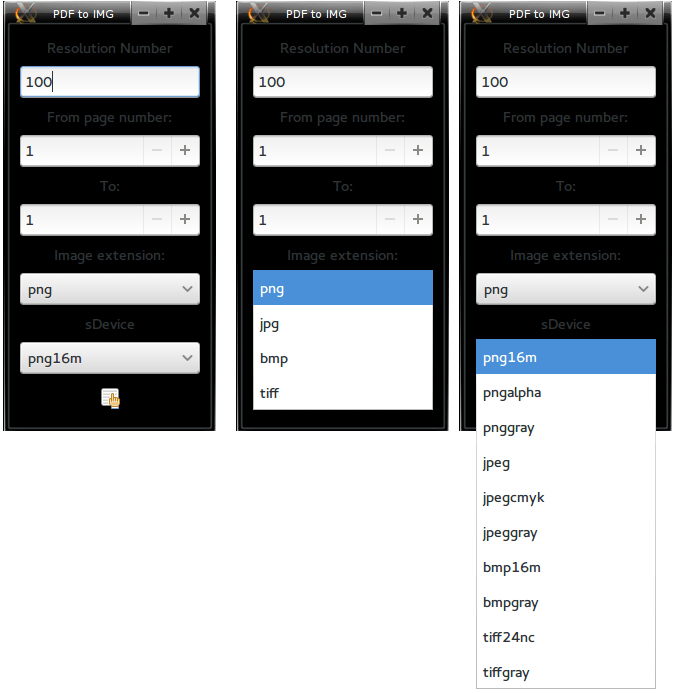
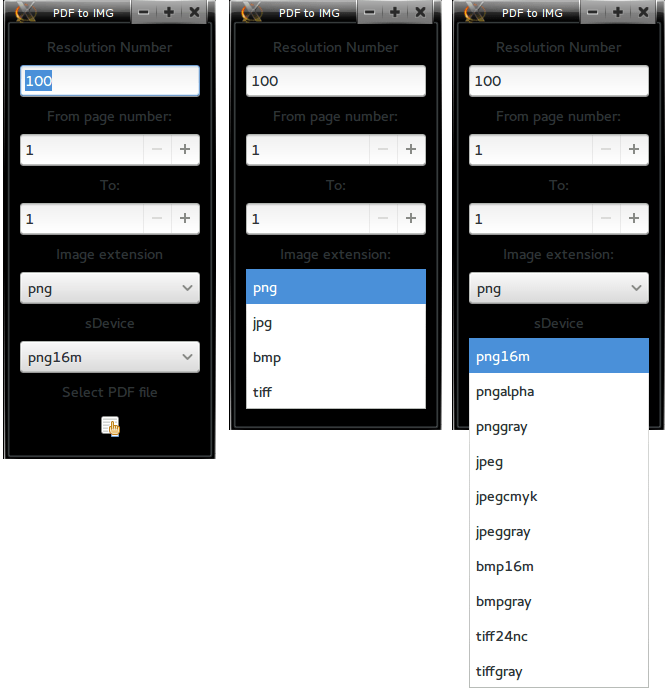
pdf2img

diff --git a/pdf2img_gui.py b/pdf2img_gui.py
@@ -12,11 +12,11 @@ class MainWindow(Gtk.Window):
     def button_clicked(self, widget):
         resolution_number = self.entry.get_text().isdigit()
         if resolution_number is not False:
-            chooser_dialog = Gtk.FileChooserDialog(title="Select file"
+            chooser_dialog = Gtk.FileChooserDialog(title="Select PDF file"
             ,action=Gtk.FileChooserAction.OPEN
             ,buttons=["Convert", Gtk.ResponseType.OK, "Cancel", Gtk.ResponseType.CANCEL])
             filter_pdf = Gtk.FileFilter()
-            filter_pdf.set_name("PDF Files")
+            filter_pdf.set_name("PDF Filter")
             filter_pdf.add_pattern("*.pdf")
             chooser_dialog.add_filter(filter_pdf)
             chooser_dialog.run()
@@ -93,7 +93,7 @@ class MainWindow(Gtk.Window):
         self.spinbutton2 = Gtk.SpinButton(adjustment=adjustment, climb_rate=1, digits=0)
         vbox.add(self.spinbutton2)
 
-        label = Gtk.Label(label="Image extension:")
+        label = Gtk.Label(label="Image extension")
         vbox.add(label)
         self.comboboxtext2 = Gtk.ComboBoxText()
         self.comboboxtext2.append("png", "png")
@@ -120,6 +120,8 @@ class MainWindow(Gtk.Window):
         #self.comboboxtext.connect("changed", self.comboboxtext_changed)
         vbox.add(self.comboboxtext)
 
+        label = Gtk.Label(label="Select PDF file")
+        vbox.add(label)
         #self.button1 = Gtk.Button(label="Select file")
         self.button1 = Gtk.ToolButton(stock_id=Gtk.STOCK_INDEX)
         self.button1.connect("clicked", self.button_clicked)
